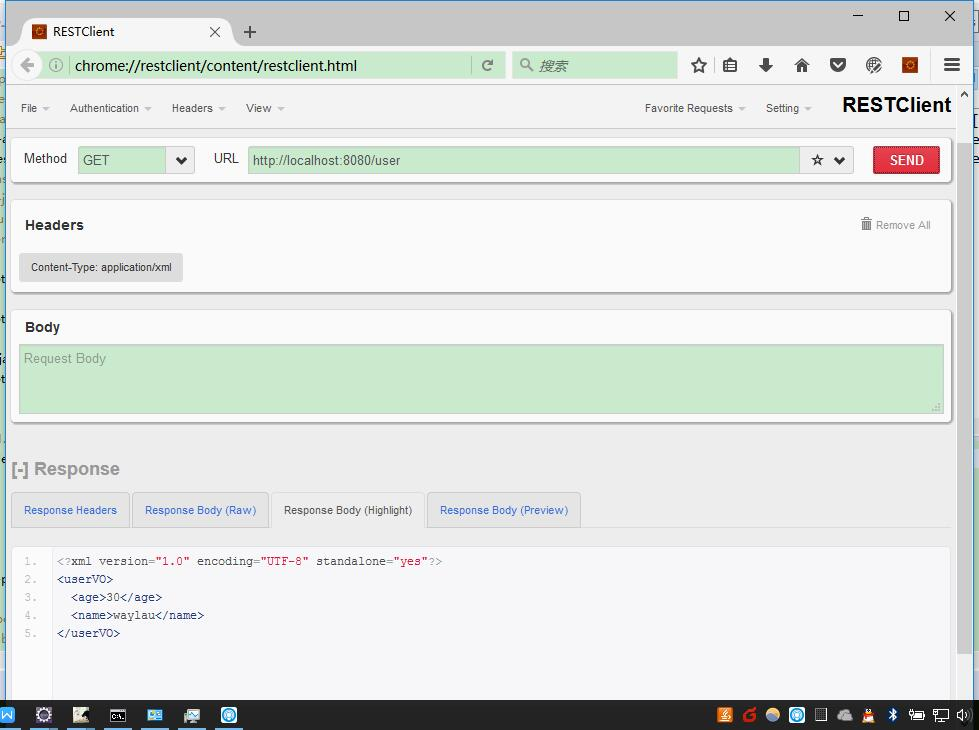
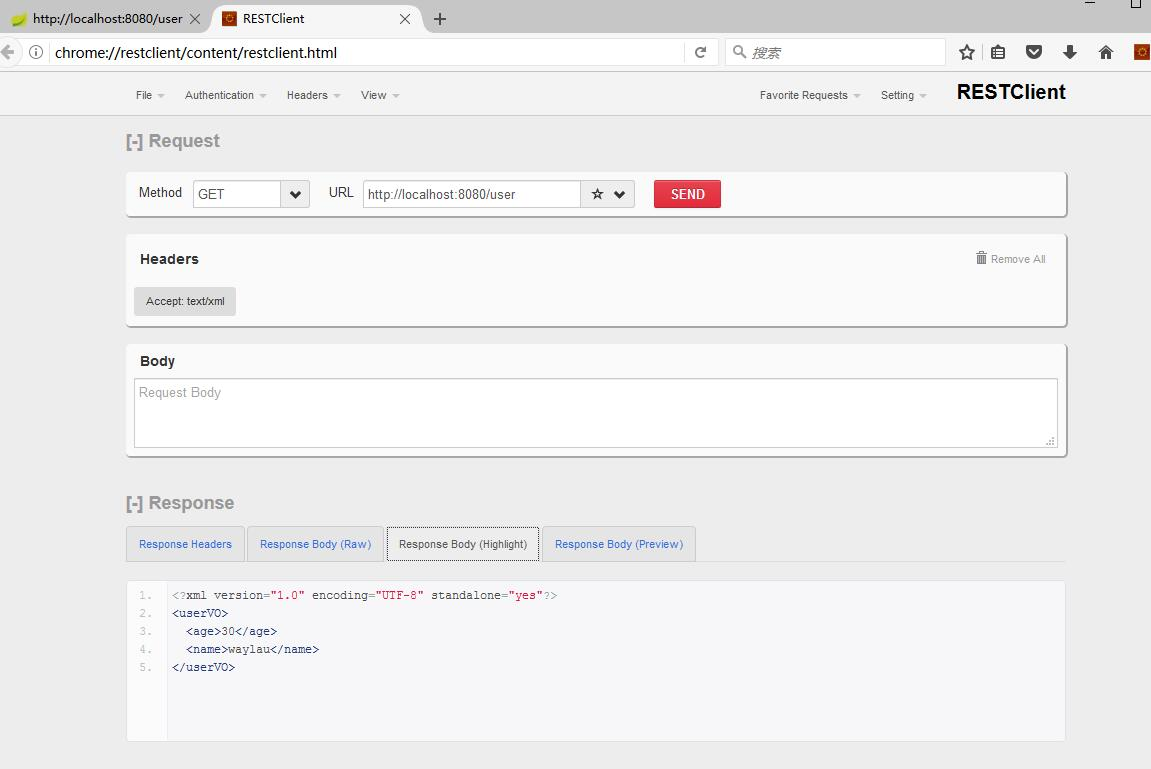
update

Changed region(s): [[0.0, 0.0, 1.0, 1.0], [0.0613, 0.7534, 0.4903, 0.874]]

diff --git a/docs/media-type.md b/docs/media-type.md
@@ -93,6 +93,7 @@ public class MediaTypeController {
 	}
 
 }
+```
 
 ## 返回 JSON 类型 
 
@@ -187,7 +188,7 @@ public class UserVO {
 
 在我们运行程序后，我们可以对<http://localhost:8080/user> 接口进行测试。
 
-我们在 RESTClient 中的 Request Header 中设置 “Content-Type”为 “application/xml”，这样就能告诉后台接口，我想要的是 XML 数据。
+我们在 RESTClient 中的 Request Header 中设置 “Accept”为 “text/xml，这样就能告诉后台接口，我想要的是 XML 数据。
 
 
 ![](../images/media-type/media-type-request-header.jpg)
@@ -197,5 +198,5 @@ public class UserVO {
 ![](../images/media-type/media-type-get-xml.jpg)
 
 
-RESTClient 也可以测试其他数据类型，比如，如果想要获得 JSON 数据，则将 “Content-Type”设置为 “application/json”
+RESTClient 也可以测试其他数据类型，比如，如果想要获得 JSON 数据，则将 “Accept”设置为 “application/json”
 即可。
